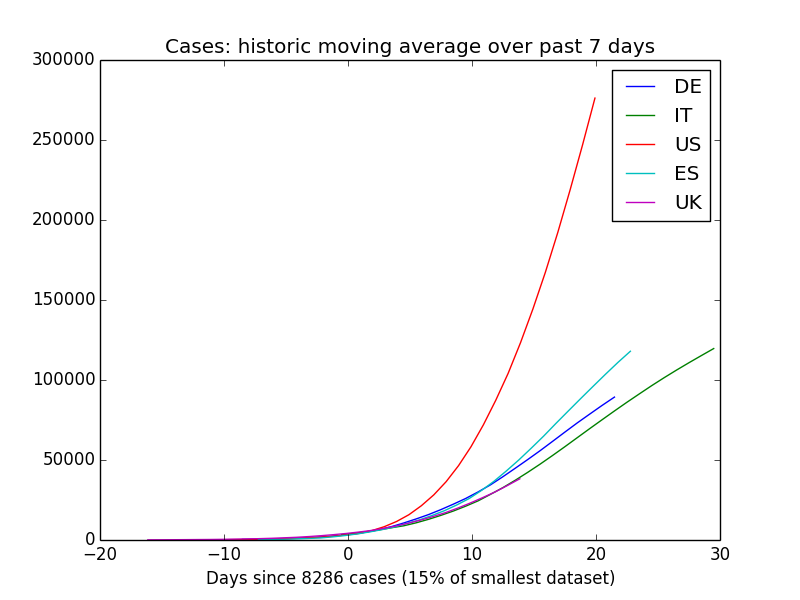
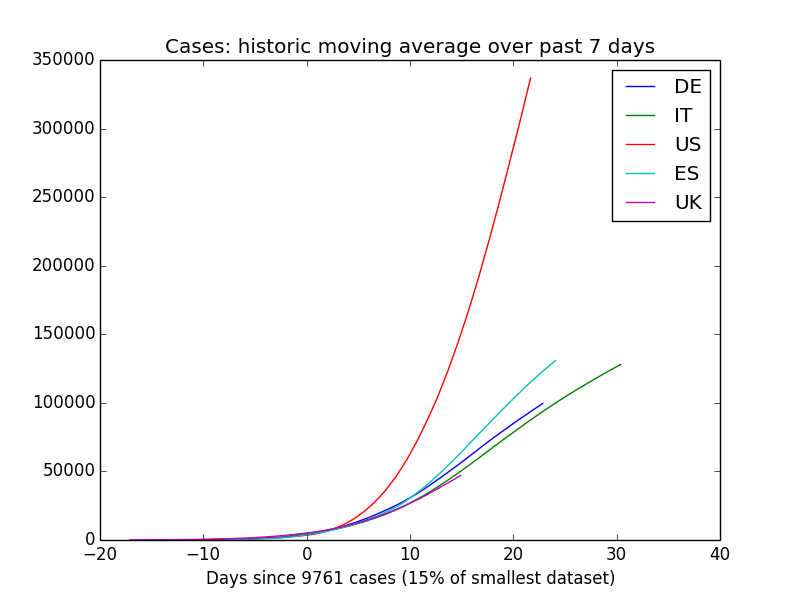
Update plots with data from April, 9th

diff --git a/README.md b/README.md
@@ -2,7 +2,7 @@
 
 Data is taken from the [2019 Novel Coronavirus COVID-19 Data Repository by Johns Hopkins CSSE](https://github.com/CSSEGISandData/COVID-19)
 
-### Last update: 07.04.2020
+### Last update: 09.04.2020
 
 ### Cases
 
